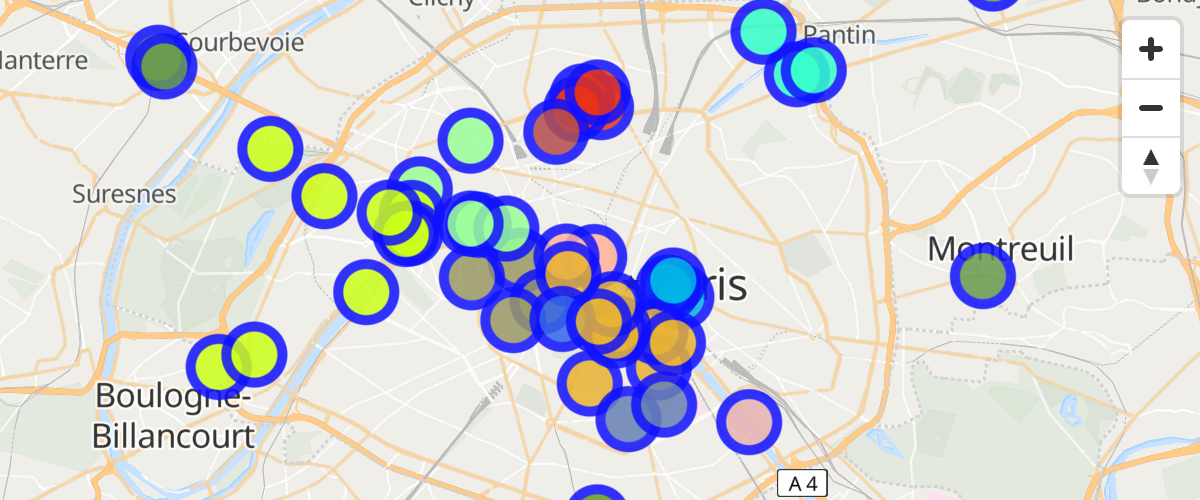
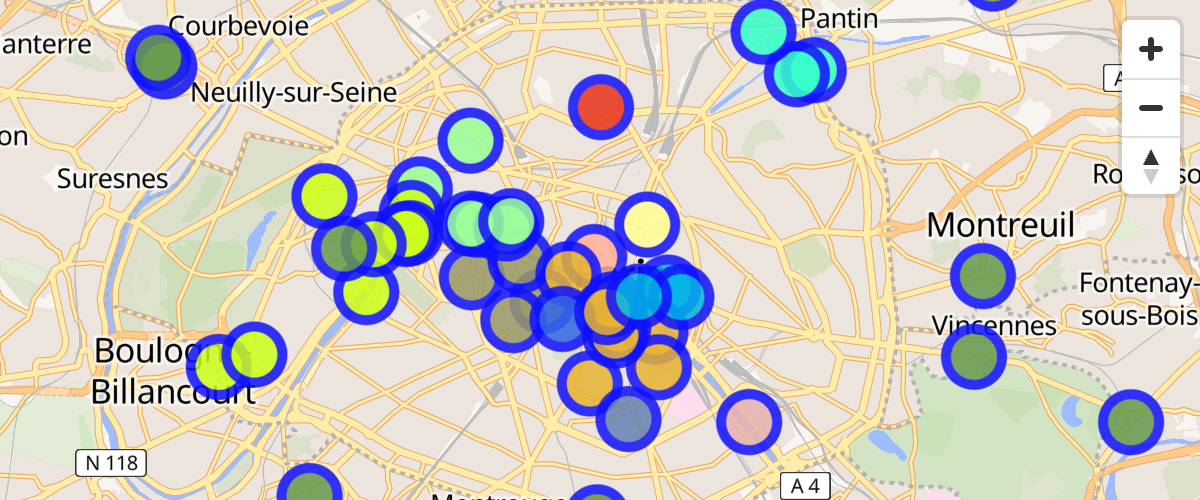
[docs] open style for create-deckgl-layer-using-rest-api example (#6285)

diff --git a/test/examples/create-deckgl-layer-using-rest-api.html b/test/examples/create-deckgl-layer-using-rest-api.html
@@ -27,12 +27,10 @@
   <body>
     <div id="map"></div>
     <script>
-      const url = 'https://maps.clockworkmicro.com/streets/v1/style?x-api-key=';
-      const apiKey = 'Dr4eW3s233rRkk8I_public';
 
       const map = new maplibregl.Map({
           container: 'map',
-          style: url + apiKey,
+          style: 'https://tiles.openfreemap.org/styles/liberty',
           center: [2.343957, 48.862011],
           zoom: 10.5,
       });
